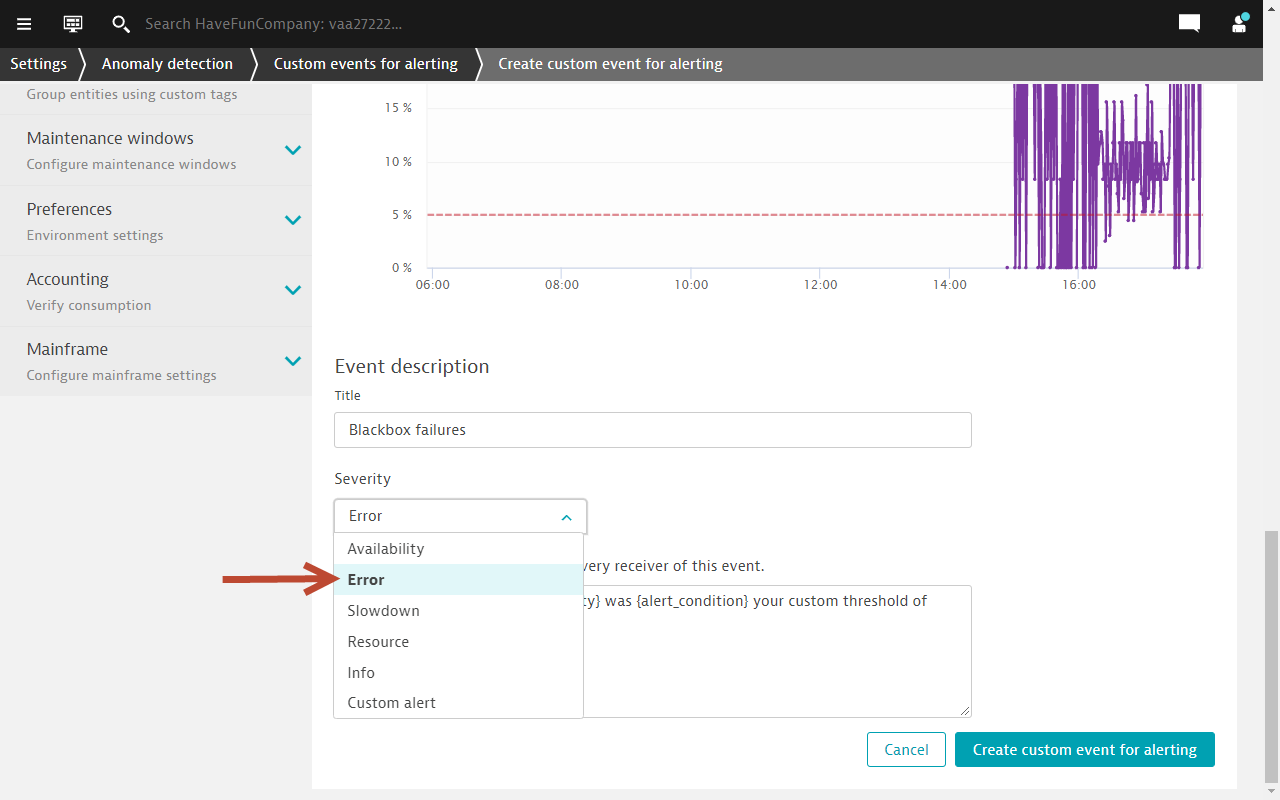
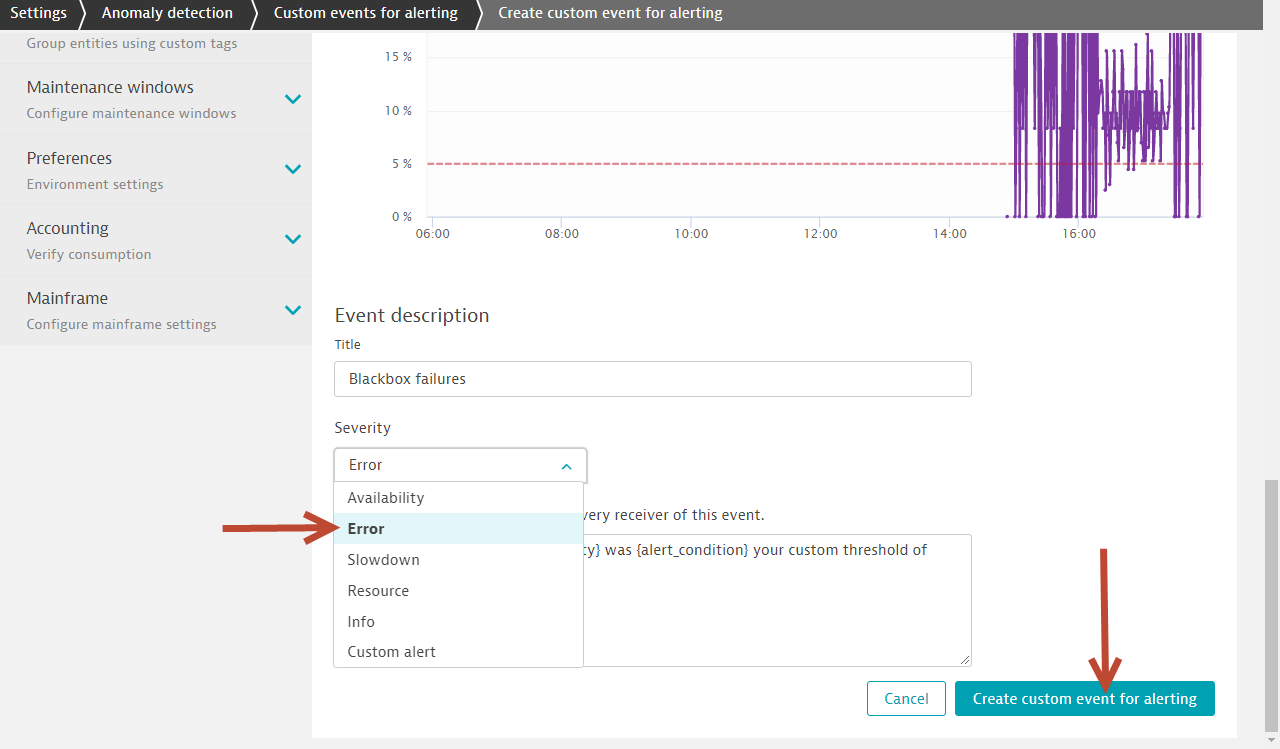
updated alerts

diff --git a/automate-integrate-opentelemetry/content/06_open_observability/04_alerts/index.md b/automate-integrate-opentelemetry/content/06_open_observability/04_alerts/index.md
@@ -6,12 +6,12 @@
    ![Settings](../../../assets/images/06_open_observability-04alerts1.gif)
 1. Under `Metric` section, select `Span Failure Rate`.
    ![Settings](../../../assets/images/06_open_observability-04alerts2.png)
-1. Under `Static threshold` section, configure the following parameters
+1. Scroll down to the `Static threshold` section, configure the following parameters
    - Alert anomalies with a static threshold of `5` percent (%)
    - Raise alert if ... the threshold for `1` minute slots
    - during any `3` minute period.
    ![Settings](../../../assets/images/06_open_observability-04alerts3.png)
-1. Configure the event description as follows
+1. Scroll down further down to the `Event description` section and configure the event description as follows
    - Title: `Blackbox failures`
    - Severity: `Error`
    ![Settings](../../../assets/images/06_open_observability-04alerts4.png)
